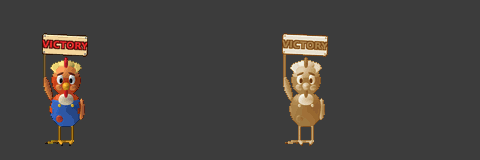
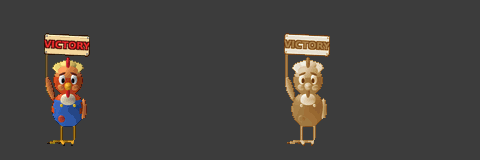
Rusty two pixels right on the select; checks read Rare's ROM's names again
Claude-Session: https://claude.ai/code/session_01S1j7pJRr5op4weh9nnuVXR

Changed region(s): [[0.0625, 0.1875, 0.1875, 0.9375], [0.5625, 0.2188, 0.6875, 0.9375]]

diff --git a/updates/art/rusty/build_cutout.py b/updates/art/rusty/build_cutout.py
@@ -36,9 +36,9 @@ import model  # noqa: E402
 
 VIEW = (10, 180)                             # facing straight out, from a little above
 OVER = 8                                     # render at 8x the screen
-FEET = (66, 143)                             # where his feet stand on the screen
+FEET = (68, 143)                             # where his feet stand on the screen
 PX_PER_UNIT = 10.4
-BOARD = (65, 45, 46, 21)                     # sign centre x, y, width, height (screen px)
+BOARD = (67, 45, 46, 21)                     # sign centre x, y, width, height (screen px)
 ORIGIN = (-7, -1)                            # the select's plot origin for this slot (fix_char_offset)
 SEPIA = [(96, 48, 16), (112, 64, 24), (120, 72, 24), (128, 80, 32), (136, 88, 40), (144, 96, 48),
          (152, 104, 48), (160, 112, 56), (160, 120, 64), (168, 128, 72), (176, 136, 80), (184, 144, 88),

diff --git a/tools/tests/checks.py b/tools/tests/checks.py
@@ -75,7 +75,8 @@ def course_names(rom):
         bb = open(base, "rb").read()         # patched build: find level 2's name, then the
         p = struct.unpack_from("<I", bb, table + 4)[0] - 0x08000000     # entry pointing to it
         name = bb[p:bb.index(b"\0", p) + 1]
-        at = b.find(name)
+        q = struct.unpack_from("<I", b, table + 4)[0] - 0x08000000
+        at = -1 if 0 <= q < len(b) and b[q:q + len(name)] == name else b.find(name)
         while at >= 0:
             i = b.find(struct.pack("<I", 0x08000000 + at))
             if i >= 4 and i % 4 == 0:
